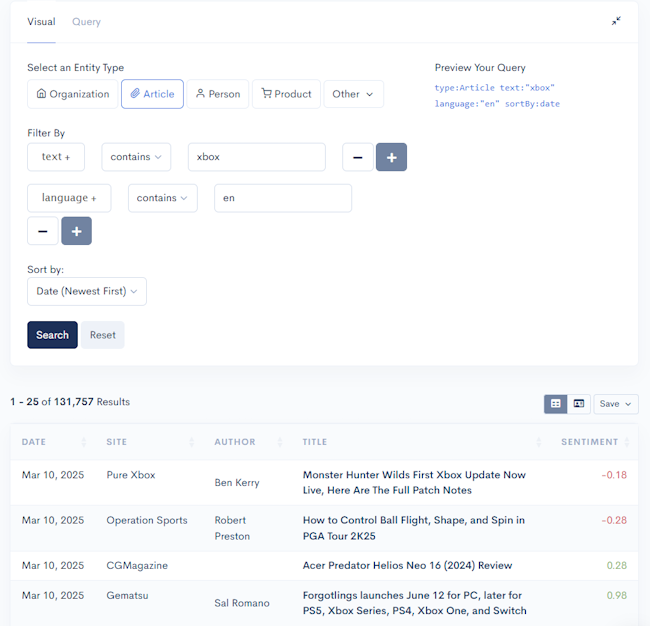
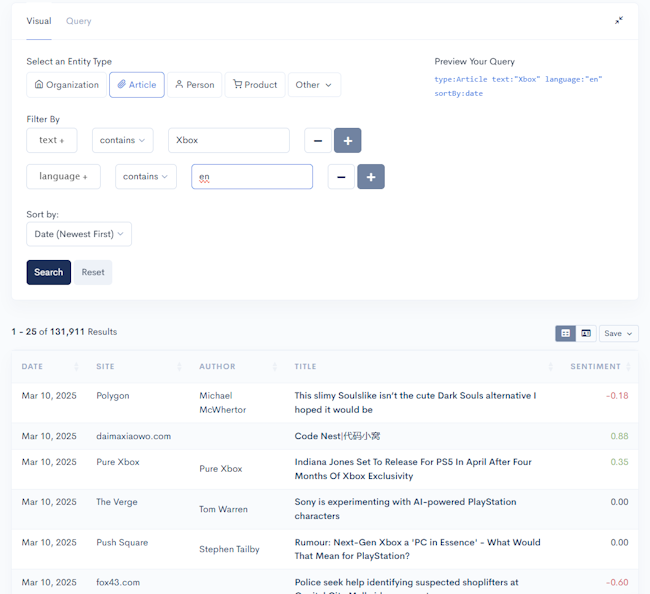
work

diff --git a/kg_sentiment_analysis/test2.py b/kg_sentiment_analysis/test2.py
@@ -11,7 +11,7 @@ today = datetime.now()
 lastWeek = today + timedelta(days=-7)
 fLastWeek = lastWeek.strftime("%Y-%m-%d")
 
-query = f'type:Article text:"xbox" language:"en" sentiment<=0 date>{fLastWeek} sortBy:date'
+query = f'type:Article text:"Xbox" language:"en" sentiment<=0 date>{fLastWeek} sortBy:date'
 
 apiCall = f"https://kg.diffbot.com/kg/v3/dql?type=query&token={token}&query={urllib.parse.quote(query)}&size=25"
 

diff --git a/kg_sentiment_analysis/test1.py b/kg_sentiment_analysis/test1.py
@@ -5,7 +5,7 @@ import urllib.parse
 
 token = os.environ.get("db_token")
 
-query = 'type:Article text:"xbox" language:"en" sentiment<=0 date>"2025-03-03" sortBy:date'
+query = 'type:Article text:"Xbox" language:"en" sentiment<=0 date>"2025-03-03" sortBy:date'
 
 apiCall = f"https://kg.diffbot.com/kg/v3/dql?type=query&token={token}&query={urllib.parse.quote(query)}&size=25"
 

diff --git a/kg_sentiment_analysis/article.md b/kg_sentiment_analysis/article.md
@@ -8,7 +8,9 @@ Before writing a line of code, I signed into Diffbot and opened up their visual 
 
 ![Screen shot of visual query builder, no options selected](./shot1.png)
 
-From this tool, I started off by selecting an entity type. This is the high level type of data I want to search and can be one of many numerous options, from people to events to movies and investments. I selected "Article" as my intent is to find news that's speaking ill of my wonderful product. I then selected a "Filter By" option. While you can filter by any property in the entity type, I used `text` as I didn't want to limit my results to items that mentioned by product by title. For the value, I selected "xbox". Lastly, I set the "Sort by" value to show newest first. I then hit search to see if my results made sense:
+From this tool, I started off by selecting an entity type. This is the high level type of data I want to search and can be one of many numerous options, from people to events to movies and investments. I selected "Article" as my intent is to find news that's speaking ill of my wonderful product. I then selected a "Filter By" option. While you can filter by any property in the entity type, I used `text` as I didn't want to limit my results to items that mentioned by product by title. For the value, I selected "Xbox". Initially I had used 'xbox', but by using the proper name of the product, it ensures results include Xbox as one of the main topics. 
+
+Lastly, I set the "Sort by" value to show newest first. I then hit search to see if my results made sense:
 
 ![Search results shown](./shot2.png)
 
@@ -20,9 +22,9 @@ Alright, so next, I want to filter to just negative results. Knowledge Graph Art
 
 ![Search results shown, now filtered to English with negative sentiment](./shot4.png)
 
-Woot, getting there. As a final step, I knew this was going to be automated and filtered to 'recent' items, so I added one more filter, this time on `date`, selected after, and picked a date from a week ago.
+Woot, getting there. As a final step, I knew this was going to be automated and filtered to 'recent' items, so I added one more filter, this time on `date`, selected `after`, and picked a date from a week ago.
 
-![Search results shown, now filtered to English with negative sentiment, and with a date filter](./shot7.png)
+![Search results shown, now filtered to English with negative sentiment, and with a date filter](./shot5.png)
 
 At this point, the query looks good, so let's copy out the query value provided by the tool:
 
@@ -42,7 +44,7 @@ import urllib.parse
 
 token = os.environ.get("db_token")
 
-query = 'type:Article text:"xbox" language:"en" sentiment<=0 date>"2025-03-03" sortBy:date'
+query = 'type:Article text:"Xbox" language:"en" sentiment<=0 date>"2025-03-03" sortBy:date'
 
 apiCall = f"https://kg.diffbot.com/kg/v3/dql?type=query&token={token}&query={urllib.parse.quote(query)}&size=25"
 
@@ -120,7 +122,7 @@ fLastWeek = lastWeek.strftime("%Y-%m-%d")
 And the last bit was to just include that date in my query:
 
 ```python
-query = f'type:Article text:"xbox" language:"en" sentiment<=0 date>{fLastWeek} sortBy:date'
+query = f'type:Article text:"Xbox" language:"en" sentiment<=0 date>{fLastWeek} sortBy:date'
 ```
 
 You can see the complete source code for the initial version [here](https://github.com/cfjedimaster/writing/blob/main/kg_sentiment_analysis/test1.py) and the final version [here](https://github.com/cfjedimaster/writing/blob/main/kg_sentiment_analysis/test2.py).
@@ -150,7 +152,7 @@ def handler(pd: "pipedream"):
   lastWeek = today + timedelta(days=-7)
   fLastWeek = lastWeek.strftime("%Y-%m-%d")
 
-  query = f'type:Article text:"xbox" language:"en" sentiment<=0 date>{fLastWeek} sortBy:date'
+  query = f'type:Article text:"Xbox" language:"en" sentiment<=0 date>{fLastWeek} sortBy:date'
   
   apiCall = f"https://kg.diffbot.com/kg/v3/dql?type=query&token={token}&query={urllib.parse.quote(query)}&size=25"
   
